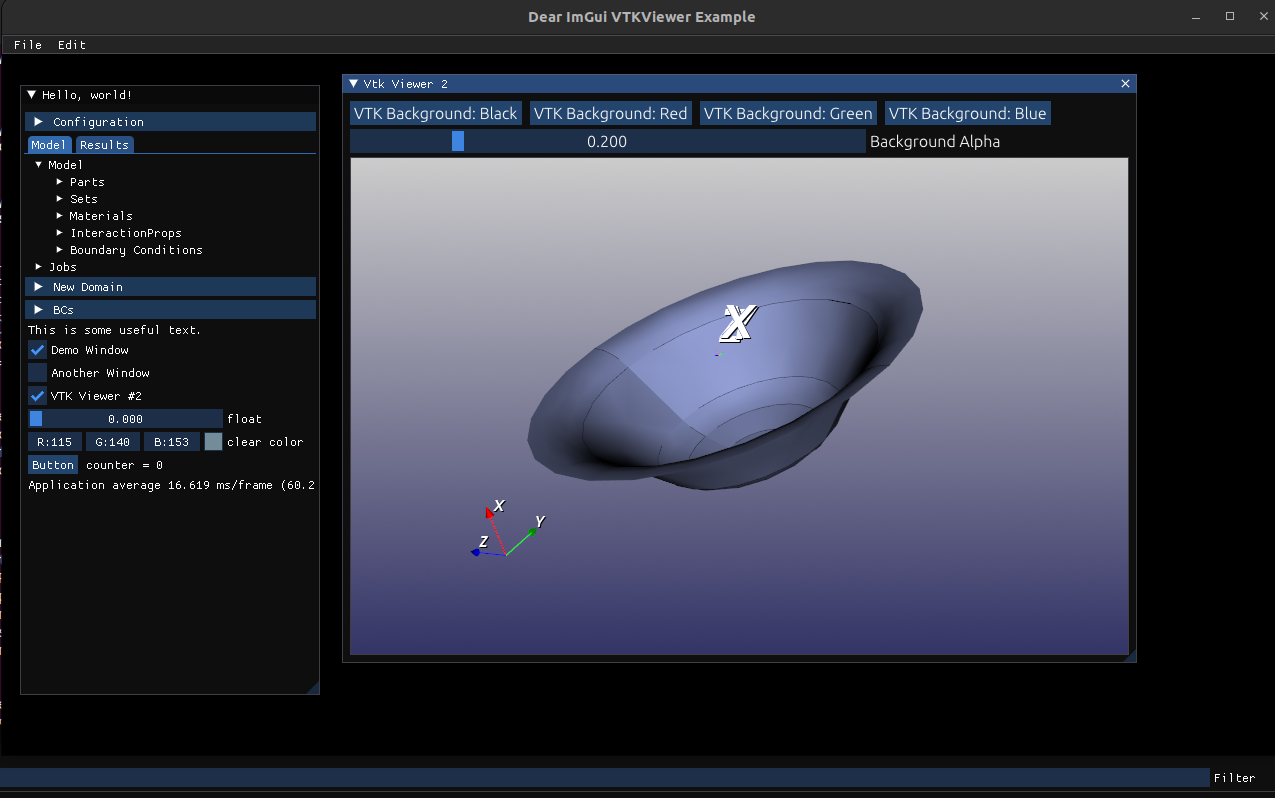
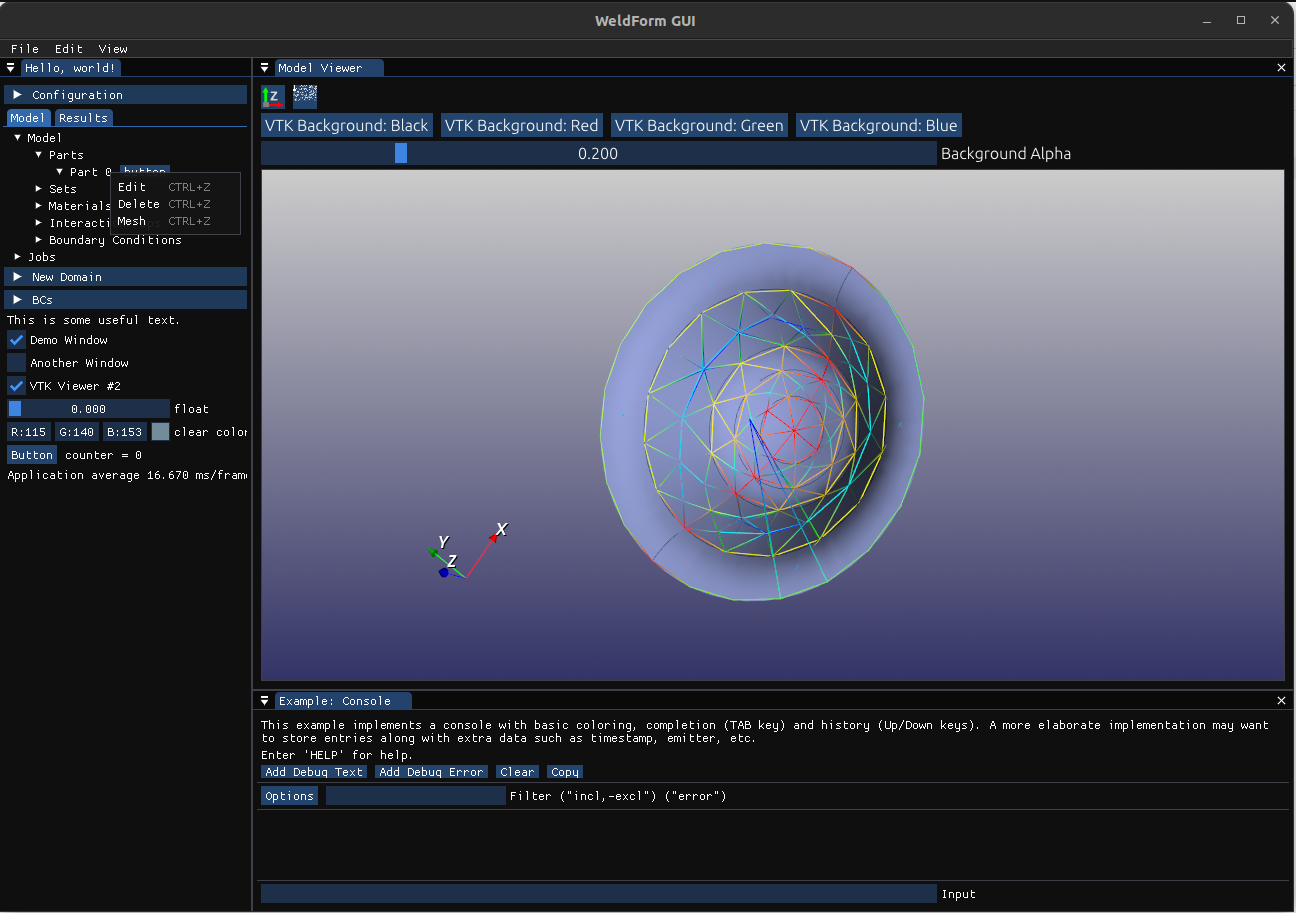
added meshing

diff --git a/src/geom/vtkOCCTGeom.cpp b/src/geom/vtkOCCTGeom.cpp
@@ -22,7 +22,7 @@ int vtkOCCTGeom::TestReader(const std::string& path, unsigned int format)
   mapper->SetInputDataObject(reader->GetOutput());
   actor = vtkSmartPointer <vtkActor>::New();
   actor->SetMapper(mapper);
-  actor->GetProperty()->SetRepresentationToWireframe();
+  //actor->GetProperty()->SetRepresentationToWireframe();
   actor->GetProperty()->SetLineWidth(1.0);
 
 
